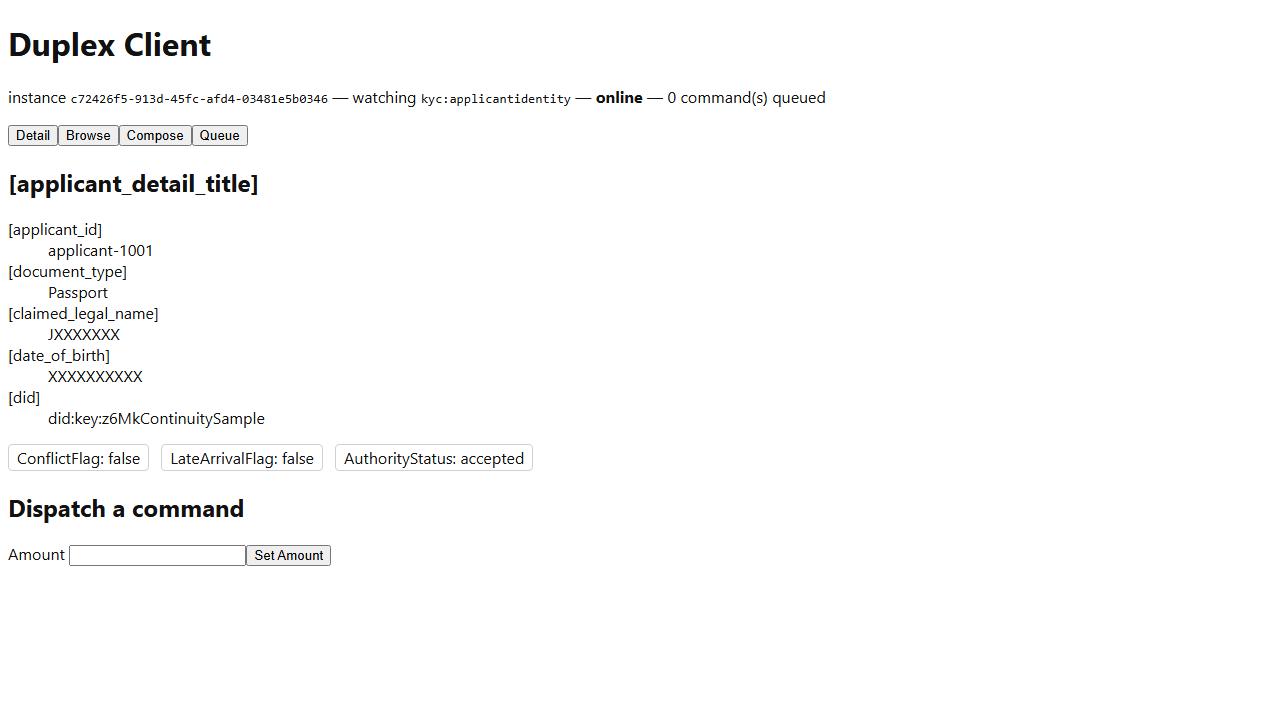
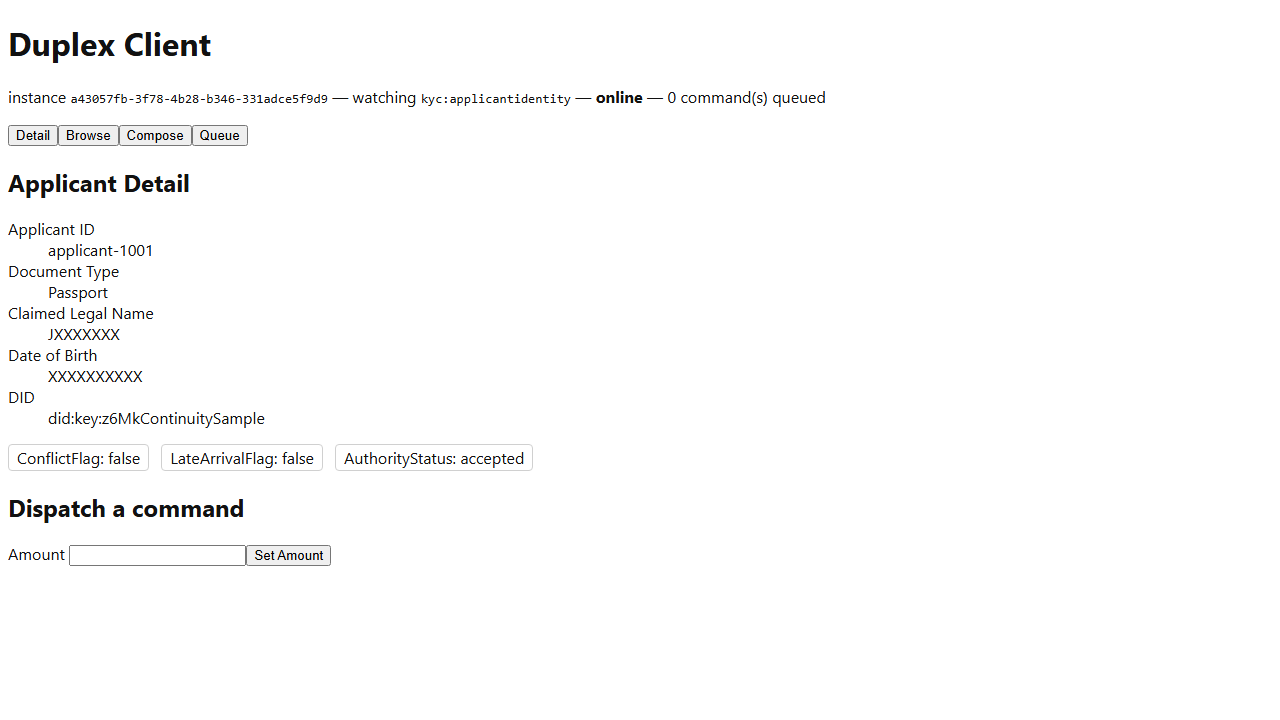
Add missing translation keys for Vitals'/Meridian's ViewDefinition templates
Closes the real, smaller gap the previous playbook-timing fix
surfaced: patient_detail_title, subject_id, etc. (Vitals) and
applicant_detail_title, applicant_id, etc. (Meridian) had no entry in
placeholderTranslations, so every ViewDefinition template rendered its
own field labels as literal [key] brackets instead of text. Added
across all three existing locales (en-US/fr-FR/ar-SA) -- the one
resource set useEntityViewActions.ts resolves against. Full client-web
suite verified (151/151); all three playbook tests regenerated with
real labels in place of the brackets. TODO.md's entry removed.

diff --git a/client-web/packages/mvvm-client/src/i18n/translations.ts b/client-web/packages/mvvm-client/src/i18n/translations.ts
@@ -7,18 +7,65 @@
 // works end to end, not to ship real production copy.
 export type TranslationResources = Record<string, Record<string, string>>
 
+// Vitals' Patient and Meridian's ApplicantIdentity Detail ViewDefinition
+// templates (Samples.Vitals.Seed/Samples.Meridian.Seed) are exactly the
+// "domain-owned" content this ADR's own comment above describes -- their
+// {{ t:key }} keys were registered with no matching translation anywhere,
+// so every live render showed a literal "[key]" bracket instead (found via
+// a UI-playbook screenshot, TODO.md). Added here, the one resource set
+// useEntityViewActions.ts actually resolves against (no per-domain
+// resource seam exists yet), at the same placeholder-quality bar as the
+// pre-existing carrier_label/amount_label pair -- not reviewed production
+// copy, just enough for every registered template key to resolve to real
+// text instead of its own bracketed name.
 export const placeholderTranslations: TranslationResources = {
   'en-US': {
     carrier_label: 'Carrier',
     amount_label: 'Amount',
+    patient_detail_title: 'Patient Detail',
+    subject_id: 'Subject ID',
+    site_id: 'Site ID',
+    protocol_id: 'Protocol ID',
+    eligibility_status: 'Eligibility Status',
+    legal_name: 'Legal Name',
+    date_of_birth: 'Date of Birth',
+    applicant_detail_title: 'Applicant Detail',
+    applicant_id: 'Applicant ID',
+    document_type: 'Document Type',
+    claimed_legal_name: 'Claimed Legal Name',
+    did: 'DID',
   },
   'fr-FR': {
     carrier_label: 'Transporteur',
     amount_label: 'Montant',
+    patient_detail_title: 'Détail du patient',
+    subject_id: 'ID du sujet',
+    site_id: 'ID du site',
+    protocol_id: 'ID du protocole',
+    eligibility_status: "Statut d'éligibilité",
+    legal_name: 'Nom légal',
+    date_of_birth: 'Date de naissance',
+    applicant_detail_title: 'Détail du demandeur',
+    applicant_id: 'ID du demandeur',
+    document_type: 'Type de document',
+    claimed_legal_name: 'Nom légal déclaré',
+    did: 'DID',
   },
   'ar-SA': {
     carrier_label: 'شركة الشحن',
     amount_label: 'المبلغ',
+    patient_detail_title: 'تفاصيل المريض',
+    subject_id: 'معرف الخاضع',
+    site_id: 'معرف الموقع',
+    protocol_id: 'معرف البروتوكول',
+    eligibility_status: 'حالة الأهلية',
+    legal_name: 'الاسم القانوني',
+    date_of_birth: 'تاريخ الميلاد',
+    applicant_detail_title: 'تفاصيل مقدم الطلب',
+    applicant_id: 'معرف مقدم الطلب',
+    document_type: 'نوع المستند',
+    claimed_legal_name: 'الاسم القانوني المصرح به',
+    did: 'المعرف اللامركزي (DID)',
   },
 }
 

diff --git a/tests/EventStore.E2ETests/MeridianWorkflowADocumentAndBiometricCapturePlaybookTests.cs b/tests/EventStore.E2ETests/MeridianWorkflowADocumentAndBiometricCapturePlaybookTests.cs
@@ -115,7 +115,7 @@ public class MeridianWorkflowADocumentAndBiometricCapturePlaybookTests
         // as the ApplicantIdentity ViewDefinition never resolving at all.
         var templatedView = _page.GetByLabel("Entity (ViewDefinition-rendered)");
         await Assertions.Expect(templatedView).ToBeVisibleAsync();
-        await recorder.RecordStepAsync(_page, "Selecting applicant-1001 opens its Detail view, rendered from the ApplicantIdentity Detail ViewDefinition Samples.Meridian.Seed registers (ADR-039). This subscription's own payload type is IdentityClaimSubmitted's, so only that event's fields (DID, claimed legal name, date of birth, document type) render -- ExtractedDocumentNumber/biometric fields from the upstream capture events aren't part of this payload shape, even though all three events fold onto the same entity in the Entity Store itself. The bracketed labels (\"[applicant_id]\" etc.) are this template's own unresolved {{ t:key }} translation placeholders -- the same real, separate i18n-resource gap seen on Vitals' Patient template.");
+        await recorder.RecordStepAsync(_page, "Selecting applicant-1001 opens its Detail view, rendered from the ApplicantIdentity Detail ViewDefinition Samples.Meridian.Seed registers (ADR-039). This subscription's own payload type is IdentityClaimSubmitted's, so only that event's fields (DID, claimed legal name, date of birth, document type) render -- ExtractedDocumentNumber/biometric fields from the upstream capture events aren't part of this payload shape, even though all three events fold onto the same entity in the Entity Store itself.");
 
         await recorder.WriteMarkdownAsync("Meridian -- Workflow A: Document and Biometric Capture");
 

diff --git a/tests/EventStore.E2ETests/MeridianWorkflowACustomerOnboardingPlaybookTests.cs b/tests/EventStore.E2ETests/MeridianWorkflowACustomerOnboardingPlaybookTests.cs
@@ -99,7 +99,7 @@ public class MeridianWorkflowACustomerOnboardingPlaybookTests
         // CapturePlaybookTests's own comment for the full correction history).
         var templatedView = _page.GetByLabel("Entity (ViewDefinition-rendered)");
         await Assertions.Expect(templatedView).ToBeVisibleAsync();
-        await recorder.RecordStepAsync(_page, "The Detail view, rendered from the registered ApplicantIdentity ViewDefinition, shows the IdentityClaimSubmitted payload itself (masked ClaimedLegalName/DateOfBirth, ADR-009) plus AuthorityStatus: accepted, this workflow's own end state: an analyst's review (ADR-035/ADR-042/ADR-046) has accepted the self-attested claim into the record. The bracketed labels are this template's own unresolved {{ t:key }} translation placeholders -- a real, separate i18n-resource gap, not a masking or review-status defect.");
+        await recorder.RecordStepAsync(_page, "The Detail view, rendered from the registered ApplicantIdentity ViewDefinition, shows the IdentityClaimSubmitted payload itself (masked ClaimedLegalName/DateOfBirth, ADR-009) plus AuthorityStatus: accepted, this workflow's own end state: an analyst's review (ADR-035/ADR-042/ADR-046) has accepted the self-attested claim into the record.");
 
         await recorder.WriteMarkdownAsync("Meridian -- Workflow A: Customer Onboarding and Identity Verification");
 

diff --git a/tests/EventStore.E2ETests/VitalsWorkflowAPlaybookTests.cs b/tests/EventStore.E2ETests/VitalsWorkflowAPlaybookTests.cs
@@ -122,7 +122,7 @@ public class VitalsWorkflowAPlaybookTests
         // taken). Wait for the real templated render before capturing.
         var templatedView = _page.GetByLabel("Entity (ViewDefinition-rendered)");
         await Assertions.Expect(templatedView).ToBeVisibleAsync();
-        await recorder.RecordStepAsync(_page, "Selecting S-0091 from the browser opens its Detail view, rendered from the Patient Detail ViewDefinition Samples.Vitals.Seed registers (ADR-039) -- subject/site/protocol IDs, eligibility status, and the masked legal name/date of birth fields. The bracketed labels (\"[subject_id]\" etc.) are this template's own {{ t:key }} translation placeholders rendering unresolved -- no translation resource registers these particular keys yet, a real, separate gap from the ViewDefinition mechanism itself, which is working correctly here.");
+        await recorder.RecordStepAsync(_page, "Selecting S-0091 from the browser opens its Detail view, rendered from the Patient Detail ViewDefinition Samples.Vitals.Seed registers (ADR-039) -- subject/site/protocol IDs, eligibility status, and the masked legal name/date of birth fields (translated via translations.ts's placeholderTranslations, ADR-087).");
 
         await recorder.WriteMarkdownAsync("Vitals -- Workflow A: Patient Enrollment and Informed Consent");
 

diff --git a/docs/playbooks/meridian/workflow-a-document-and-biometric-capture.md b/docs/playbooks/meridian/workflow-a-document-and-biometric-capture.md
@@ -10,7 +10,7 @@ _Generated by `EventStore.E2ETests` against a real running deployment -- re-run 
 
 ![Switching to the Browse tab. The continuity applicant applicant-1001 (Samples.Meridian.Seed) is already present, having published IdentityDocumentUploaded, BiometricCaptureRecorded, and IdentityClaimSubmitted -- all folded onto the one kyc:ApplicantIdentity:applicant-1001 entity.](workflow-a-document-and-biometric-capture/step-02.png)
 
-## Step 3. Selecting applicant-1001 opens its Detail view, rendered from the ApplicantIdentity Detail ViewDefinition Samples.Meridian.Seed registers (ADR-039). This subscription's own payload type is IdentityClaimSubmitted's, so only that event's fields (DID, claimed legal name, date of birth, document type) render -- ExtractedDocumentNumber/biometric fields from the upstream capture events aren't part of this payload shape, even though all three events fold onto the same entity in the Entity Store itself. The bracketed labels ("[applicant_id]" etc.) are this template's own unresolved {{ t:key }} translation placeholders -- the same real, separate i18n-resource gap seen on Vitals' Patient template.
+## Step 3. Selecting applicant-1001 opens its Detail view, rendered from the ApplicantIdentity Detail ViewDefinition Samples.Meridian.Seed registers (ADR-039). This subscription's own payload type is IdentityClaimSubmitted's, so only that event's fields (DID, claimed legal name, date of birth, document type) render -- ExtractedDocumentNumber/biometric fields from the upstream capture events aren't part of this payload shape, even though all three events fold onto the same entity in the Entity Store itself.
 
-![Selecting applicant-1001 opens its Detail view, rendered from the ApplicantIdentity Detail ViewDefinition Samples.Meridian.Seed registers (ADR-039). This subscription's own payload type is IdentityClaimSubmitted's, so only that event's fields (DID, claimed legal name, date of birth, document type) render -- ExtractedDocumentNumber/biometric fields from the upstream capture events aren't part of this payload shape, even though all three events fold onto the same entity in the Entity Store itself. The bracketed labels ("[applicant_id]" etc.) are this template's own unresolved {{ t:key }} translation placeholders -- the same real, separate i18n-resource gap seen on Vitals' Patient template.](workflow-a-document-and-biometric-capture/step-03.png)
+![Selecting applicant-1001 opens its Detail view, rendered from the ApplicantIdentity Detail ViewDefinition Samples.Meridian.Seed registers (ADR-039). This subscription's own payload type is IdentityClaimSubmitted's, so only that event's fields (DID, claimed legal name, date of birth, document type) render -- ExtractedDocumentNumber/biometric fields from the upstream capture events aren't part of this payload shape, even though all three events fold onto the same entity in the Entity Store itself.](workflow-a-document-and-biometric-capture/step-03.png)
 

diff --git a/docs/playbooks/vitals/workflow-a-patient-enrollment-and-informed-consent.md b/docs/playbooks/vitals/workflow-a-patient-enrollment-and-informed-consent.md
@@ -10,7 +10,7 @@ _Generated by `EventStore.E2ETests` against a real running deployment -- re-run 
 
 ![Switching to the Browse tab. The continuity subject S-0091 (Samples.Vitals.Seed) is already present -- REPLAY mode (not TAIL) means the full historical PatientScreened stream is caught up on first subscribe, not just new arrivals.](workflow-a-patient-enrollment-and-informed-consent/step-02.png)
 
-## Step 3. Selecting S-0091 from the browser opens its Detail view, rendered from the Patient Detail ViewDefinition Samples.Vitals.Seed registers (ADR-039) -- subject/site/protocol IDs, eligibility status, and the masked legal name/date of birth fields. The bracketed labels ("[subject_id]" etc.) are this template's own {{ t:key }} translation placeholders rendering unresolved -- no translation resource registers these particular keys yet, a real, separate gap from the ViewDefinition mechanism itself, which is working correctly here.
+## Step 3. Selecting S-0091 from the browser opens its Detail view, rendered from the Patient Detail ViewDefinition Samples.Vitals.Seed registers (ADR-039) -- subject/site/protocol IDs, eligibility status, and the masked legal name/date of birth fields (translated via translations.ts's placeholderTranslations, ADR-087).
 
-![Selecting S-0091 from the browser opens its Detail view, rendered from the Patient Detail ViewDefinition Samples.Vitals.Seed registers (ADR-039) -- subject/site/protocol IDs, eligibility status, and the masked legal name/date of birth fields. The bracketed labels ("[subject_id]" etc.) are this template's own {{ t:key }} translation placeholders rendering unresolved -- no translation resource registers these particular keys yet, a real, separate gap from the ViewDefinition mechanism itself, which is working correctly here.](workflow-a-patient-enrollment-and-informed-consent/step-03.png)
+![Selecting S-0091 from the browser opens its Detail view, rendered from the Patient Detail ViewDefinition Samples.Vitals.Seed registers (ADR-039) -- subject/site/protocol IDs, eligibility status, and the masked legal name/date of birth fields (translated via translations.ts's placeholderTranslations, ADR-087).](workflow-a-patient-enrollment-and-informed-consent/step-03.png)
 

diff --git a/docs/playbooks/meridian/workflow-a-customer-onboarding-and-identity-verification.md b/docs/playbooks/meridian/workflow-a-customer-onboarding-and-identity-verification.md
@@ -10,7 +10,7 @@ _Generated by `EventStore.E2ETests` against a real running deployment -- re-run 
 
 ![The Browse tab shows applicant-1001, whose IdentityClaimSubmitted event carries its self-attested did:key DID alongside the claimed legal name and date of birth (ADR-036).](workflow-a-customer-onboarding-and-identity-verification/step-02.png)
 
-## Step 3. The Detail view, rendered from the registered ApplicantIdentity ViewDefinition, shows the IdentityClaimSubmitted payload itself (masked ClaimedLegalName/DateOfBirth, ADR-009) plus AuthorityStatus: accepted, this workflow's own end state: an analyst's review (ADR-035/ADR-042/ADR-046) has accepted the self-attested claim into the record. The bracketed labels are this template's own unresolved {{ t:key }} translation placeholders -- a real, separate i18n-resource gap, not a masking or review-status defect.
+## Step 3. The Detail view, rendered from the registered ApplicantIdentity ViewDefinition, shows the IdentityClaimSubmitted payload itself (masked ClaimedLegalName/DateOfBirth, ADR-009) plus AuthorityStatus: accepted, this workflow's own end state: an analyst's review (ADR-035/ADR-042/ADR-046) has accepted the self-attested claim into the record.
 
-![The Detail view, rendered from the registered ApplicantIdentity ViewDefinition, shows the IdentityClaimSubmitted payload itself (masked ClaimedLegalName/DateOfBirth, ADR-009) plus AuthorityStatus: accepted, this workflow's own end state: an analyst's review (ADR-035/ADR-042/ADR-046) has accepted the self-attested claim into the record. The bracketed labels are this template's own unresolved {{ t:key }} translation placeholders -- a real, separate i18n-resource gap, not a masking or review-status defect.](workflow-a-customer-onboarding-and-identity-verification/step-03.png)
+![The Detail view, rendered from the registered ApplicantIdentity ViewDefinition, shows the IdentityClaimSubmitted payload itself (masked ClaimedLegalName/DateOfBirth, ADR-009) plus AuthorityStatus: accepted, this workflow's own end state: an analyst's review (ADR-035/ADR-042/ADR-046) has accepted the self-attested claim into the record.](workflow-a-customer-onboarding-and-identity-verification/step-03.png)
 

diff --git a/docs/changes/2026-08-28.md b/docs/changes/2026-08-28.md
@@ -229,3 +229,28 @@ guaranteed to catch the fallback, not prove its permanence.
   specific keys doesn't exist).
 - All three playbook tests re-verified passing against a live `AppHost`
   after this fix.
+
+## Registered the missing translations for Vitals'/Meridian's own ViewDefinition templates
+
+Closed the smaller gap the correction above actually found. Added
+Vitals' Patient (`patient_detail_title`, `subject_id`, `site_id`,
+`protocol_id`, `eligibility_status`, `legal_name`, `date_of_birth`) and
+Meridian's ApplicantIdentity (`applicant_detail_title`, `applicant_id`,
+`document_type`, `claimed_legal_name`, `date_of_birth`, `did`)
+translation keys to `client-web/packages/mvvm-client/src/i18n/
+translations.ts`'s `placeholderTranslations`, across all three existing
+locales (`en-US`/`fr-FR`/`ar-SA`) — the one resource set
+`useEntityViewActions.ts` actually resolves against (`ADR-087`'s own
+comment already frames this file's content as "domain-owned," and these
+two proving-ground domains own exactly this content the same way they
+already own their seed data and `ViewDefinition` templates).
+
+- `translations.spec.ts`'s 5 existing tests still pass unmodified (they
+  compare against the live `placeholderTranslations` object, not a
+  hardcoded key list). Full `client-web` suite verified: `mvvm-client`
+  110/110, `reference-app` 41/41.
+- All three playbook tests regenerated once more with the fix in place
+  — `docs/playbooks/vitals/workflow-a-patient-enrollment-and-informed-
+  consent.md` and both Meridian files now show real labels ("Patient
+  Detail," "Subject ID," ...) instead of `[patient_detail_title]`-style
+  brackets. `TODO.md`'s entry for this removed.

diff --git a/TODO.md b/TODO.md
@@ -48,20 +48,3 @@ here instead of inlining.
   Aspire-hosted `client-web-*` instance per additional event type to
   browse, or a real relying-party sample workflow built first — real
   infra/sample work, not `PlaybookRecorder` reuse.
-- [ ] **`ViewDefinition` templates render with unresolved `{{ t:key }}`
-  translation placeholders — no translation resource registers the
-  keys they use.** Found while fixing the playbook tests' own screenshot
-  timing (see today's `docs/changes/2026-08-28.md` entry — the
-  registered-ViewDefinition-never-resolves theory that entry corrects
-  was a false alarm, not this). Confirmed via live screenshot: Vitals'
-  Patient template (`patient_detail_title`, `subject_id`, `site_id`,
-  `protocol_id`, `eligibility_status`, `legal_name`, `date_of_birth`)
-  and Meridian's ApplicantIdentity template (`applicant_detail_title`,
-  `applicant_id`, `document_type`, `claimed_legal_name`,
-  `date_of_birth`, `did`) both render every label as a literal
-  `[key]` bracket — `TemplateRenderer.vue`'s own documented fallback
-  for a key with no entry in the `translations` map it's given
-  (`interpolate`'s `translations[translationKey] ?? \`[${translationKey}]\``).
-  Needs either registering these keys' translations (`ADR-087`'s i18n
-  mechanism) or, if none exist yet at all for either proving-ground
-  domain, building that resource file for the first time.
